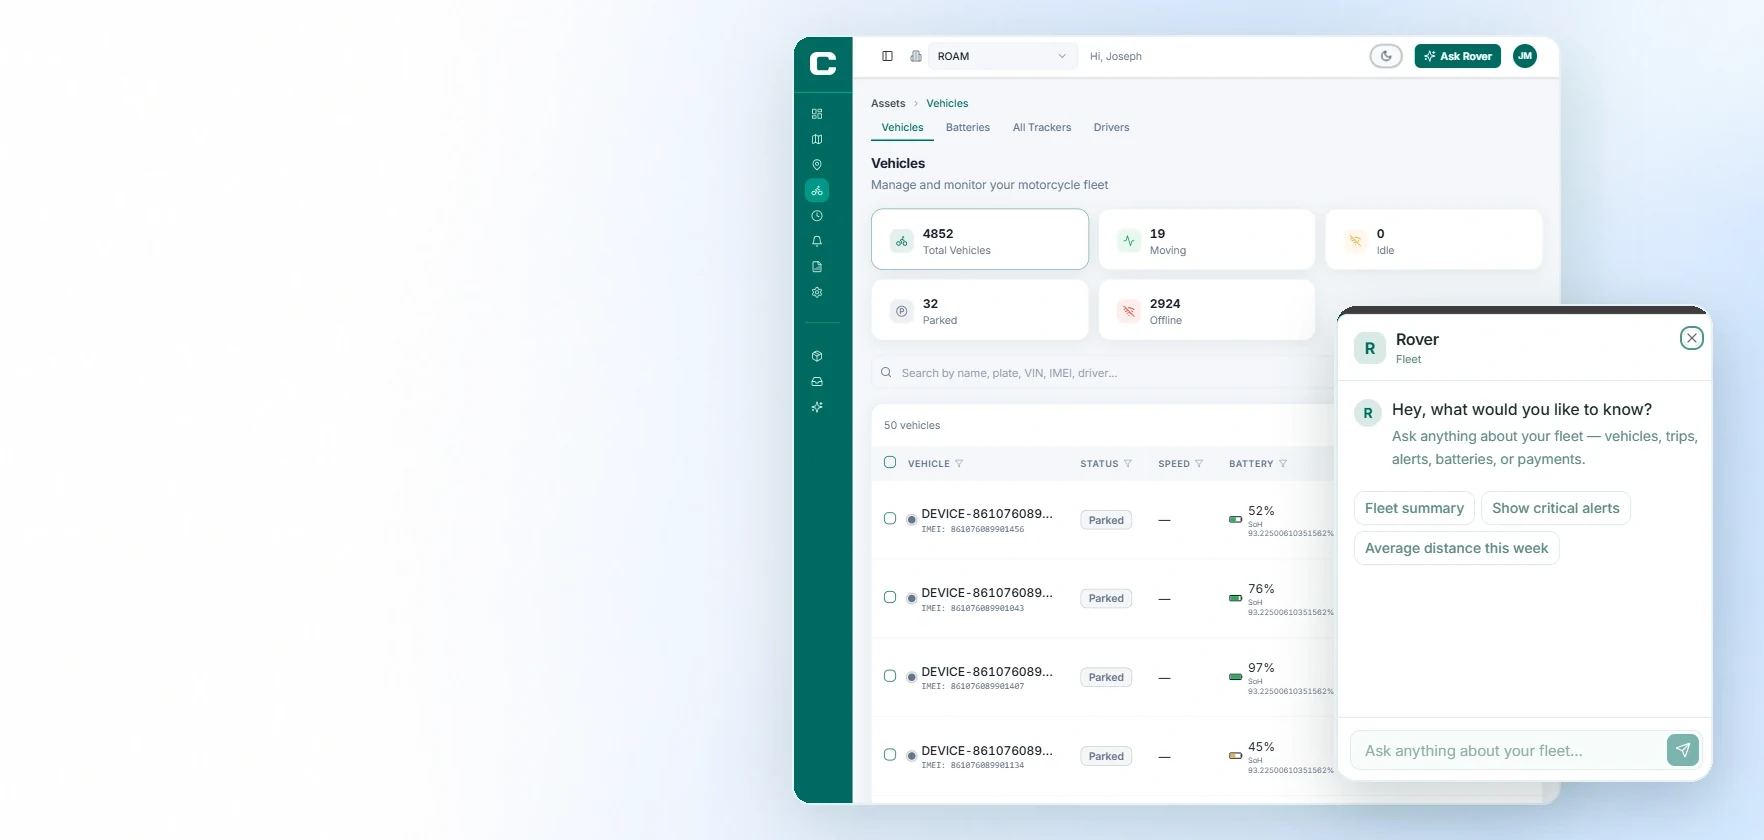
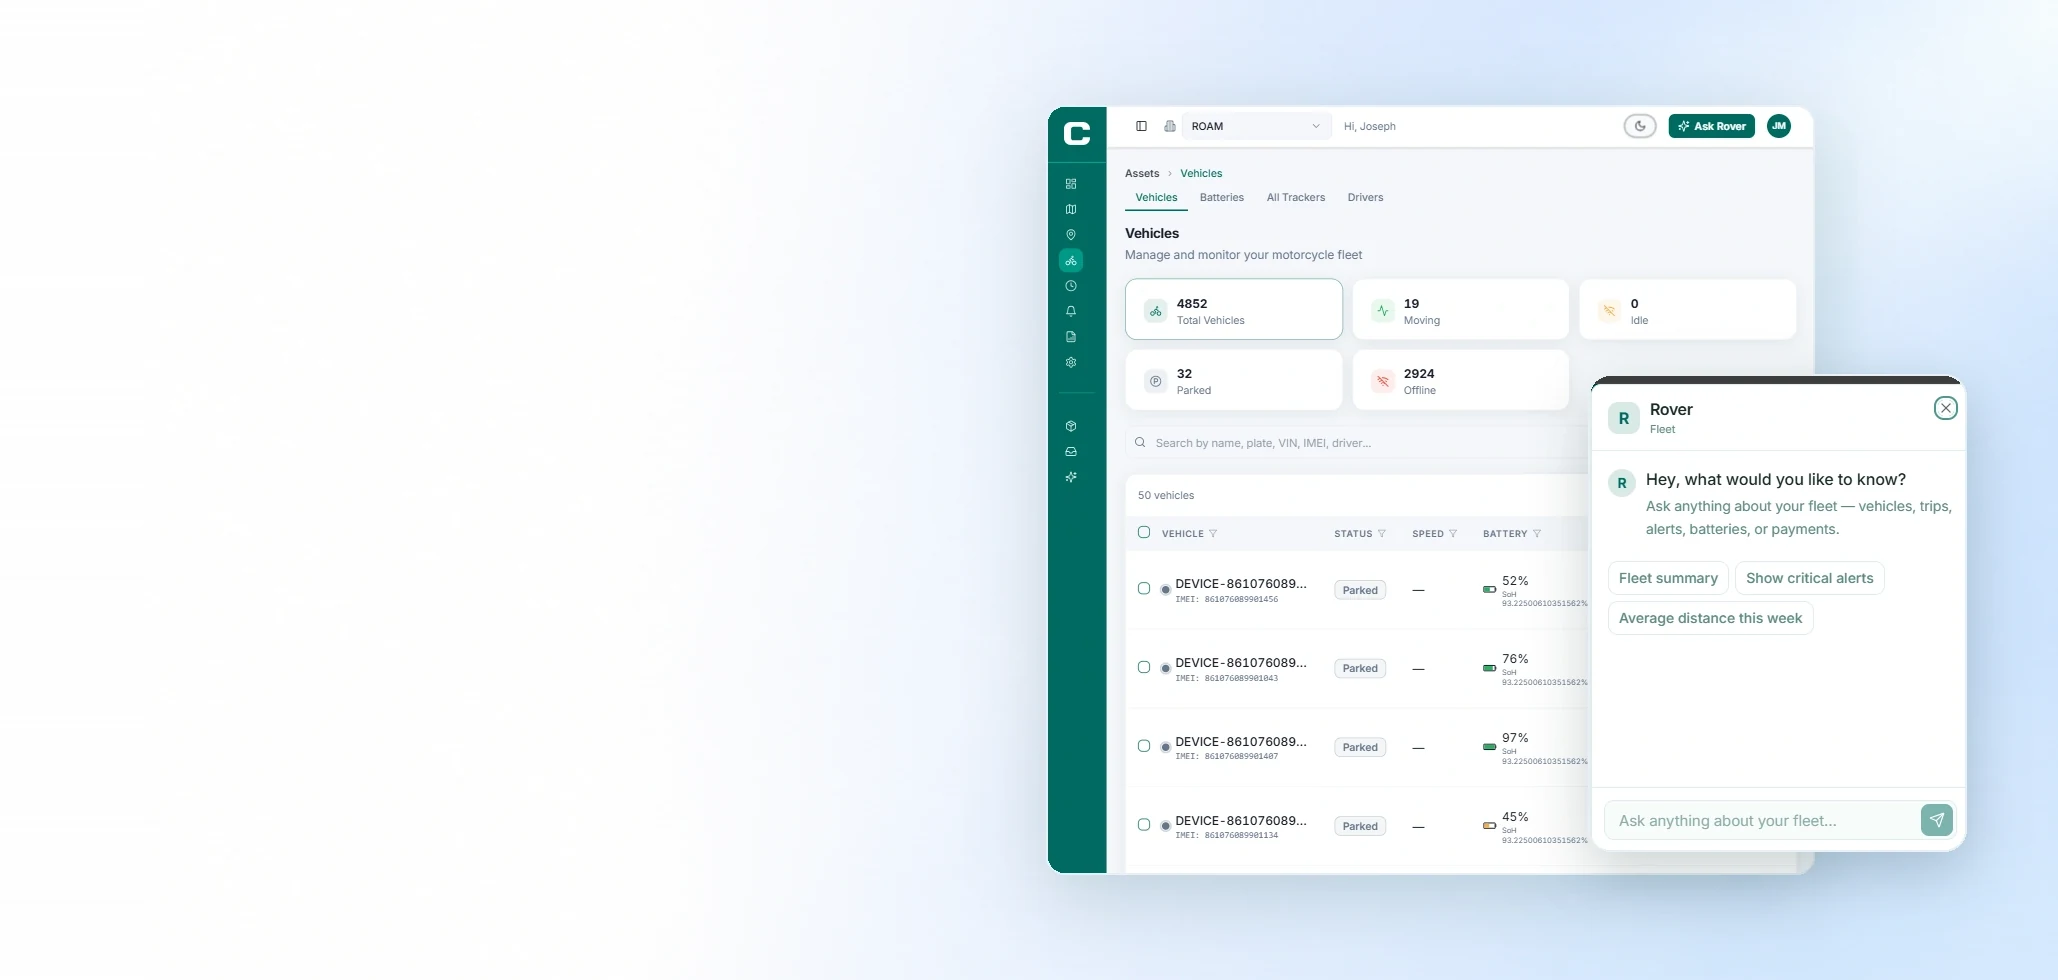
01 The problem: ease the crop back for a framed, balanced look
Screens now fill ~78% of the section height (was ~90%, before that ~70%),
with even breathing room above, below and to the right. 2058x980, 2.1:1.

Claude-Session: https://claude.ai/code/session_019hg5JKm3Ajc1VUuZ1vD315

Changed region(s): [[0.4365, 0.031, 0.9977, 0.9905], [0.6236, 0.3405, 0.7171, 0.4024], [0.6548, 0.7429, 0.6859, 0.7738]]

diff --git a/index.html b/index.html
@@ -243,8 +243,8 @@ p,h1,h2,h3,ul{margin:0}
 #why.band > .wrap{gap:var(--eg)}
 @media (min-width:1024px){
   /* text sits on the clear wall, its top level with the laptop screen, ending well above the desk line */
-  #why.band{align-items:flex-start;min-height:0;aspect-ratio:1764/840}
-  #why.band > .wrap{gap:0;padding-block:calc(100vw * 840 / 1764 * .2) 0}
+  #why.band{align-items:flex-start;min-height:0;aspect-ratio:2058/980}
+  #why.band > .wrap{gap:0;padding-block:calc(100vw * 980 / 2058 * .2) 0}
   #why.band.light .photo{object-position:0% 50%}
   #why.band.light::after{background:linear-gradient(90deg,rgba(246,249,254,.5) 0%,rgba(246,249,254,.22) 22%,rgba(246,249,254,0) 36%)}
   #why.band.light .label{letter-spacing:.18em}
@@ -1143,7 +1143,7 @@ p,h1,h2,h3,ul{margin:0}
 
   <section id="why" class="bleed band light has-media" data-sec="Why it matters" data-sid="why" data-slot="why" data-slot-l="Section background" data-default-media="images/why-it-matters.webp" aria-labelledby="why-title">
     <canvas data-seed="2207" aria-hidden="true"></canvas>
-    <picture class="default-pic"><source media="(max-width:1023px)" srcset="images/why-mobile.webp?v=14 1100w, images/why-mobile-1700.webp?v=14 1360w" sizes="100vw"><img class="photo" src="images/why-it-matters.webp?v=14" srcset="images/why-it-matters-1280.webp?v=14 1280w, images/why-it-matters.webp?v=14 1764w" sizes="100vw" alt="The Canopy vehicles screen, with fleet totals and a vehicle list, and the Rover AI assistant open beside it" width="1764" height="840" loading="lazy" decoding="async"></picture>
+    <picture class="default-pic"><source media="(max-width:1023px)" srcset="images/why-mobile.webp?v=14 1100w, images/why-mobile-1700.webp?v=14 1360w" sizes="100vw"><img class="photo" src="images/why-it-matters.webp?v=15" srcset="images/why-it-matters-1280.webp?v=15 1280w, images/why-it-matters.webp?v=15 2058w" sizes="100vw" alt="The Canopy vehicles screen, with fleet totals and a vehicle list, and the Rover AI assistant open beside it" width="2058" height="980" loading="lazy" decoding="async"></picture>
     <div class="wrap">
       <p class="label" data-k="why.label" data-l="Small label">01 The problem</p>
       <h2 id="why-title" class="h-sec" data-k="why.title" data-l="Headline">Limited asset control. Higher risk.</h2>
